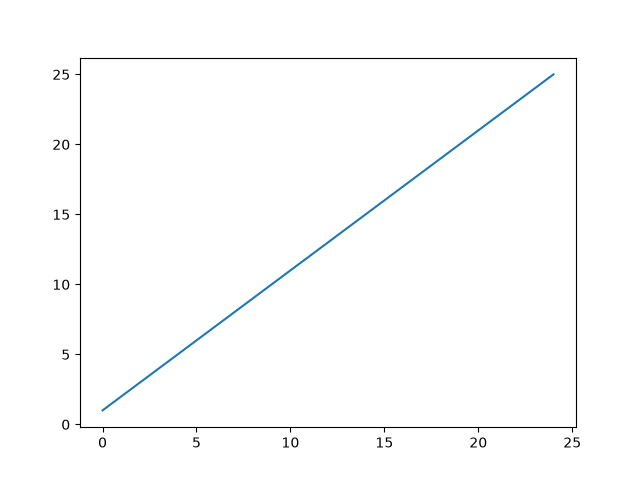
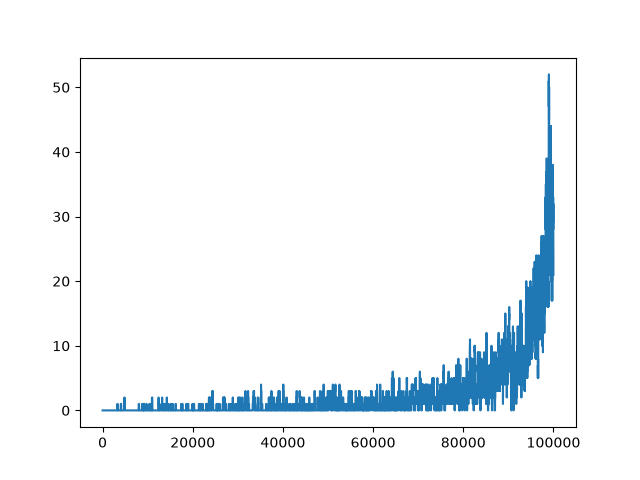
updated gif

diff --git a/frozenlake.py b/frozenlake.py
@@ -6,7 +6,7 @@ import pickle
 def run(episodes, is_training=True, render=False, learning_rate=0.9, discount_factor=0.9):
 
     # initialize the FrozenLake environment
-    env = gym.make('FrozenLake-v1', map_name='8x8', is_slippery=False, render_mode='human' if render else None)
+    env = gym.make('FrozenLake-v1', map_name='8x8', is_slippery=True, render_mode='human' if render else None)
 
     # initialize a Q lookup table only when we are training mode. Load otherwise
     if (is_training):
@@ -86,5 +86,5 @@ def run(episodes, is_training=True, render=False, learning_rate=0.9, discount_fa
         f.close()
 
 if __name__ == '__main__':
-    episodes = 25
+    episodes = 30
     run(episodes, is_training=False, render=True)
